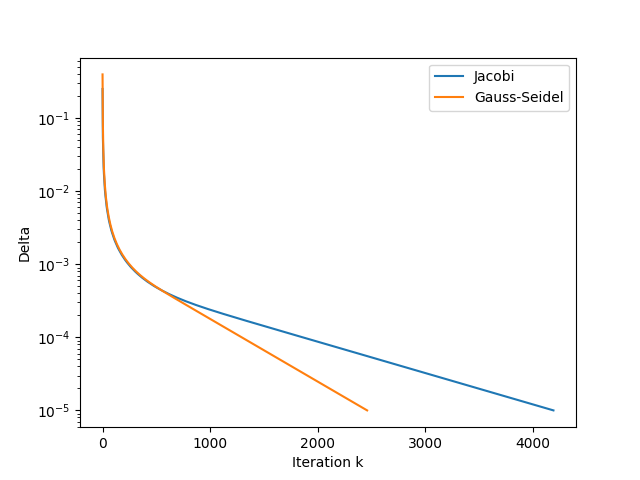
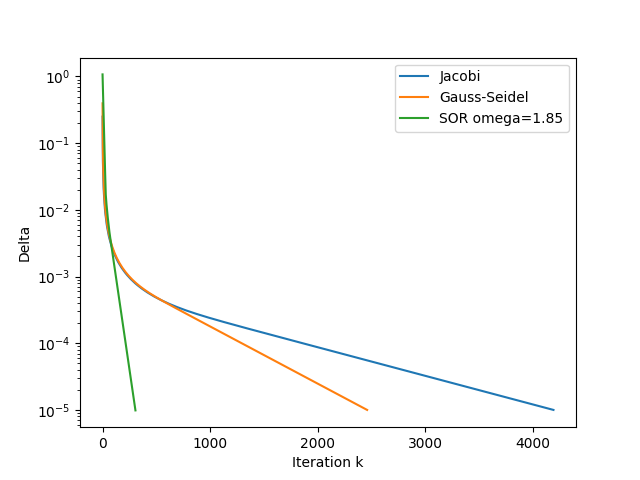
finished H and I for sor, gauss and jacobi

diff --git a/assignment_1_3.py b/assignment_1_3.py
@@ -104,6 +104,59 @@ def gauss_seidel_iteration(c, max_iteration, epsilon = 10**(-5)):
 
     return c, np.array(delta_list)
 
+
+# Implement the SOR iteration
+
+def sor_iteration(c, omega, max_iteration, epsilon = 10**(-5)):
+    """
+    This function performs the SOR iteration for solving the 2D Laplace equation with given boundary conditions.
+    params:
+    c: the initial matrix with boundary conditions set
+    N: the number of x and y steps
+    epsioln: the convergence criterion for the iteration
+    returns:
+    c: the matrix after convergence    
+
+    array[y, x] -> array[row, column] -> array[j, i]
+
+    flow of the iteration:
+    c = entire matrix at iteration k
+    c_old = entire matrix at iteration k-1
+    neighbour = the average of the 4 neighbours of c[j, i]
+    c = entire matrix at iteration k + 1
+    """
+    Ny, Nx = c.shape
+    
+    c[0, :] = 0 # set boundary condition
+    c[-1, :] = 1 # set boundary condition
+    neighbour = np.zeros_like(c)
+    delta_list = []
+
+    for k in range(max_iteration):
+        c[0, :] = 0 # set boundary condition
+        c[-1, :] = 1 # set boundary condition
+        c_old = c.copy()
+
+        for j in range(1, Ny-1):
+            for i in range(Nx):
+                right = (i + 1) % Nx # periodic boundary condition 49 + 1 = 50 % 50 = 0
+                left = (i - 1) % Nx # periodic boundary condition 0 - 1 = -1 % 50 = 49
+            
+                neighbour[j, i] = 0.25 * (c[j + 1, i] + c[j - 1, i] + c[j, right] + c[j, left])
+                c[j, i] = (1 - omega) * c_old[j, i] + omega * neighbour[j, i]
+    
+        c[0, :] = 0 # set boundary condition
+        c[-1, :] = 1 # set boundary condition
+
+        delta = np.max(np.abs(c - c_old)) 
+        delta_list.append(delta)
+
+        if delta < epsilon:
+            print(f"SOR omega={omega} converged after {k + 1} iterations.")
+            return c, np.array(delta_list)
+
+    return c, np.array(delta_list)
+
 # Try N = 50
 N = 50 
 c_initial = np.zeros((N + 1, N + 1))
@@ -112,6 +165,7 @@ c_initial[-1, :] = 1 # set boundary condition at y = 1 to 1
 
 c_jacobi, delta_list = jacobi_iteration(c_initial.copy(), 5000)
 c_gauss, delta_list_gauss = gauss_seidel_iteration(c_initial.copy(), 2500)
+c_sor, delta_list_sor = sor_iteration(c_initial.copy(), omega=1.85, max_iteration=500)
 
 # H Test the methods by comparing the result to the analytical result in eq. (5), i.e. the linear dependence of the concentration on y.
 Ny, Nx = c_jacobi.shape
@@ -130,15 +184,25 @@ c_numerical_gauss = c_gauss
 error = np.max(np.abs(c_numerical_gauss.mean(axis=1) - c_analytical))
 print(f"Max error for Gauss-Seidel method: {error}")
 
+
+# H Test the methods by comparing the result to the analytical result in eq. (5), i.e. the linear dependence of the concentration on y.
+Ny, Nx = c_sor.shape
+y = np.linspace(0, 1, Ny)
+c_analytical = y
+c_numerical_sor = c_sor
+error = np.max(np.abs(c_numerical_sor.mean(axis=1) - c_analytical))
+print(f"Max error for SOR method: {error}")
+
 # Verification of the results by plotting the numerical solutions and the analytical solution on the same graph
 y = np.linspace(0, 1, Ny)
 plt.plot(y, c_jacobi.mean(axis=1), label="Jacobi")
 plt.plot(y, c_gauss.mean(axis=1), label="Gauss-Seidel")
+plt.plot(y, c_sor.mean(axis=1), label="SOR")
 plt.plot(y, y, "--", label="Analytical c=y")
 plt.legend()
 plt.xlabel("y")
 plt.ylabel("c")
-plt.savefig("jacobi_gauss_comparison.png")
+plt.savefig("jacobi_gauss_sor_comparison.png")
 plt.show()
 
 # Question I 
@@ -149,6 +213,7 @@ plt.show()
 
 plt.semilogy(delta_list, label="Jacobi")
 plt.semilogy(delta_list_gauss, label="Gauss-Seidel")
+plt.semilogy(delta_list_sor, label="SOR omega=1.85")
 plt.xlabel("Iteration k")
 plt.ylabel("Delta")
 plt.legend()
